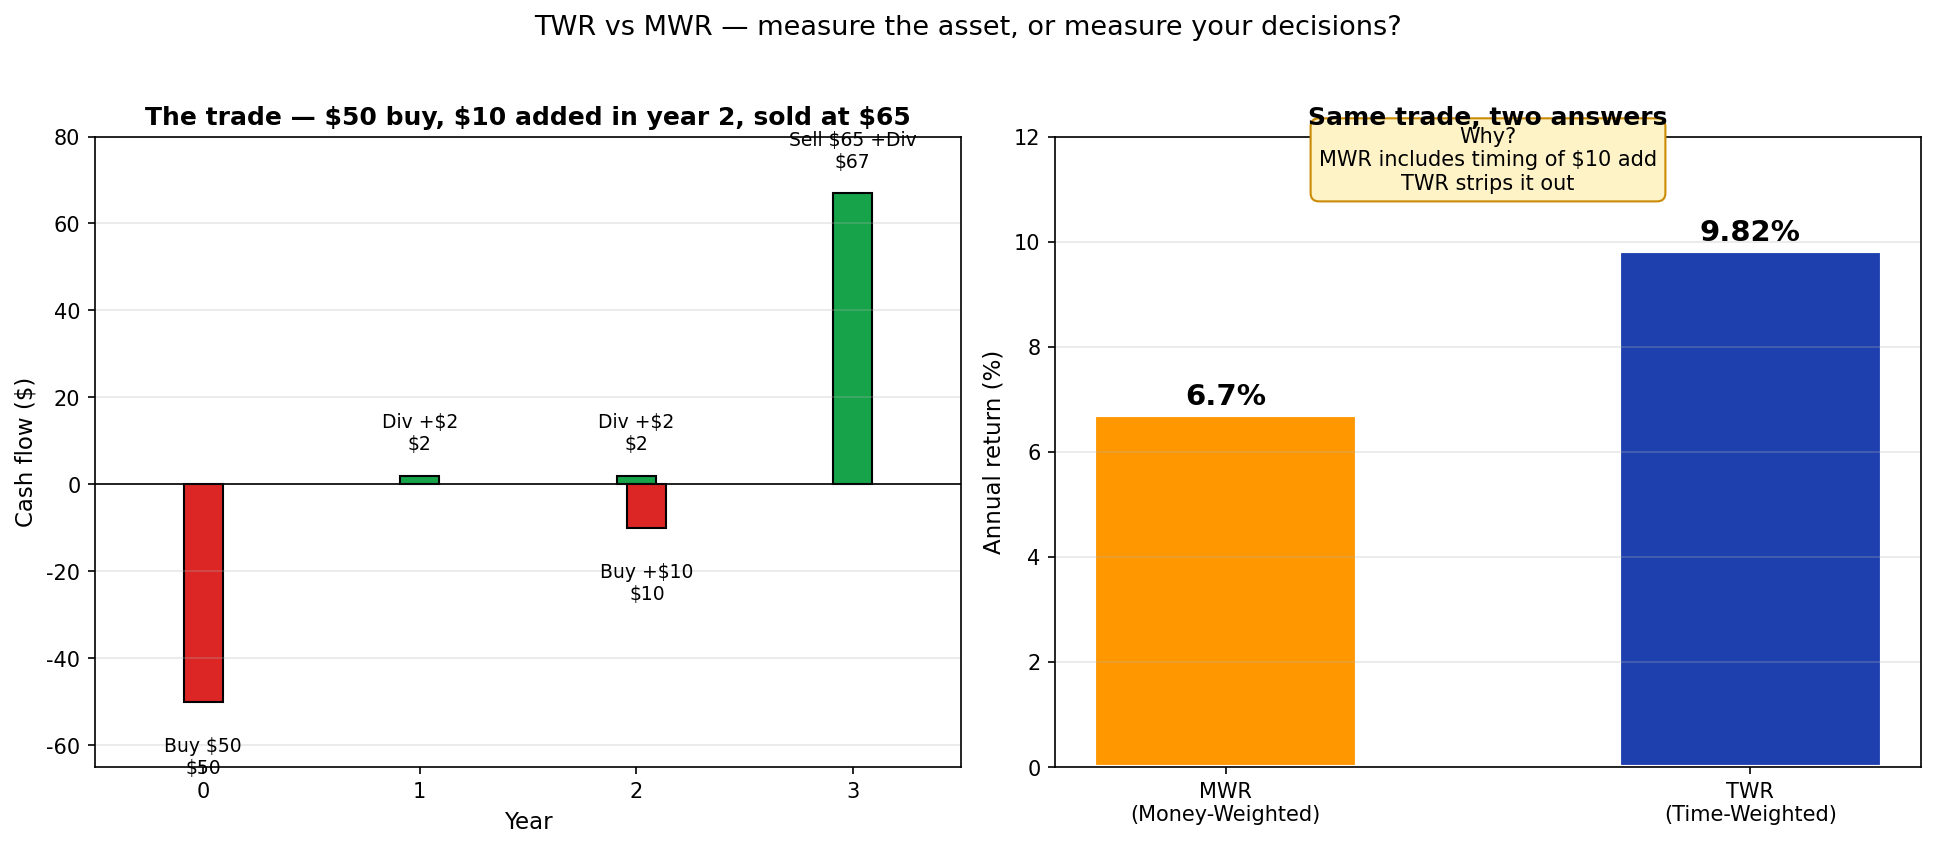
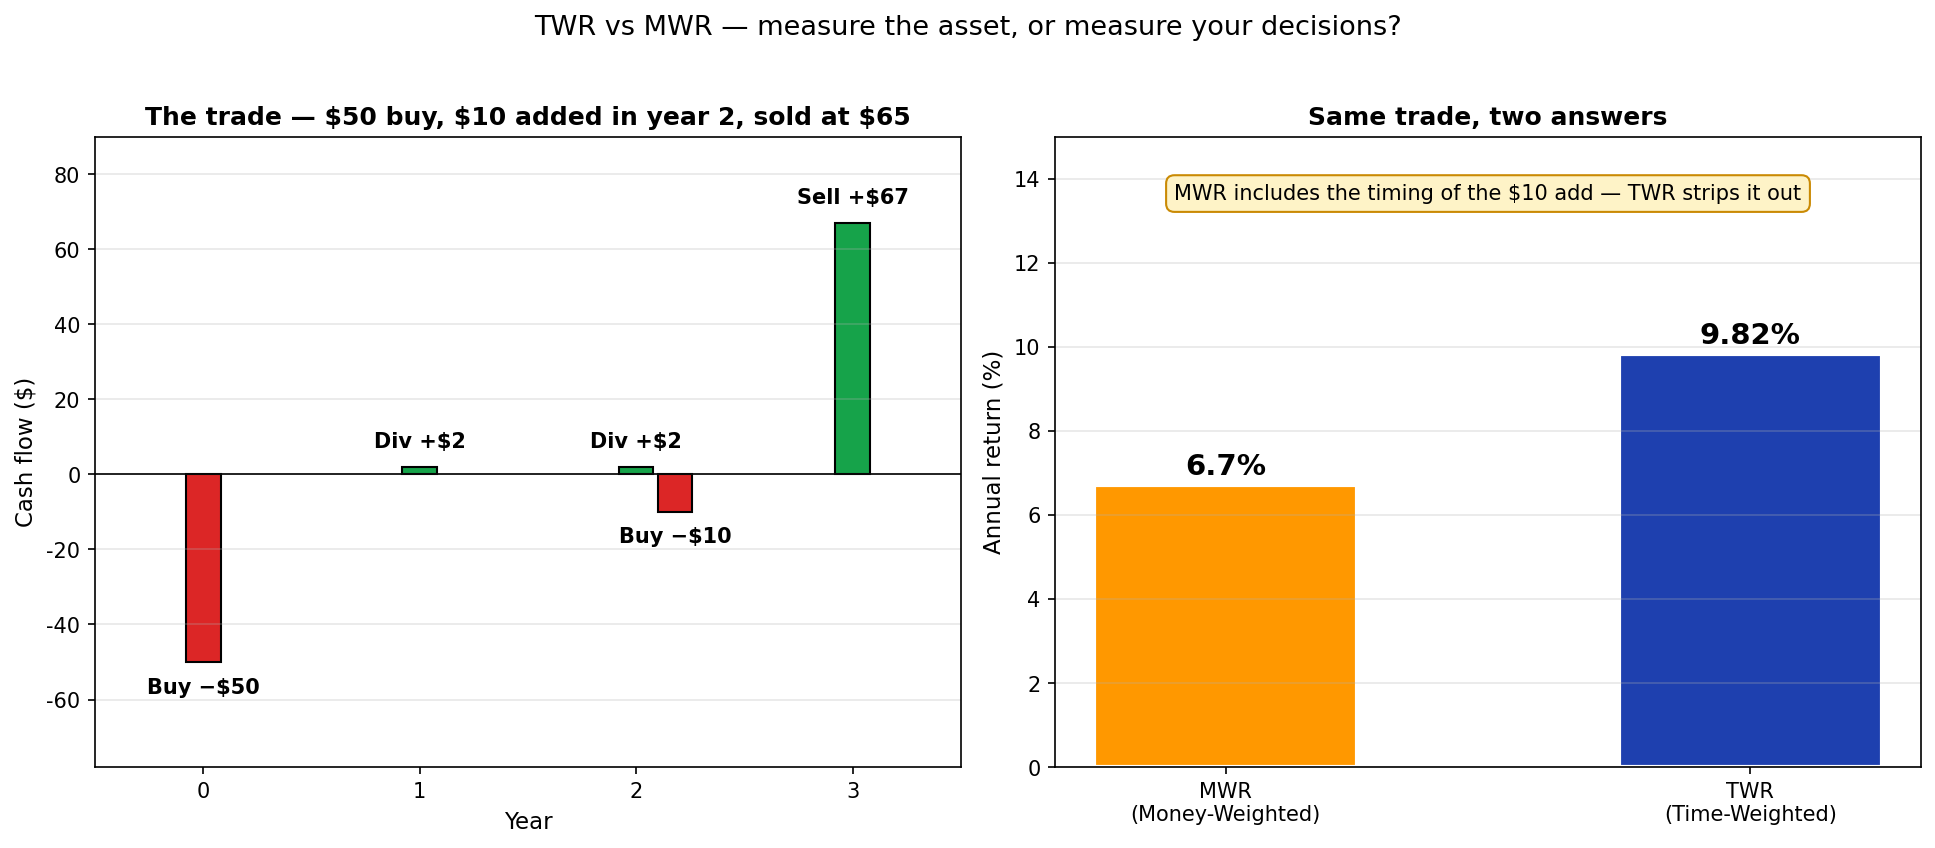
fix TWR chart label overlap + aggressively compact home dashboard block
ret_twr_vs_mwr.png:
- Left panel had stacked 2-line labels ("Buy $50\n$50") doubling info and
  crowding into each other where bars sat close (year-2 dividend + buy).
  Switched to one-line labels with sign baked in: "Buy −$50", "Buy −$10",
  "Sell +$67". Year-2 buy bar shifted 0.18 right (was 0.05) to prevent it
  from sitting on the dividend label.
- Right panel had a 3-line yellow callout sitting at y=11 that overlapped
  the TWR bar's 9.82% number. Increased ylim to 15, condensed callout to
  one line, placed at y=13.5 — clear of both bars.

Home live dashboard (.live-dash class):
- Whole block wrapped in a container div so CSS can scale every nested
  element down at once.
- H2 ("📊 변동성 라이브 대시보드") shrunk from default ~1.6rem to 1.1rem
- H3 (sub-section titles) shrunk from default ~1.25rem to 0.95rem,
  recolored gray, tight margins (0.5/0.2 rem)
- Paragraphs/captions tighter margins (0.2 rem)
- <hr> dividers tighter (0.4 rem)
- Image margins tightened to 0.3 rem with 90% max-width

Net effect: the entire dashboard block takes roughly 60% of its previous
vertical real estate without making text unreadable.

diff --git a/scripts/update_dashboard.py b/scripts/update_dashboard.py
@@ -332,6 +332,8 @@ def render_section_ko(cs, vs):
     spread_label = "역전" if cs["spread_state"] == "danger" else KO_LABEL[cs["spread_state"]]
     parts = [
         START_MARK,
+        '<div class="live-dash" markdown>',
+        "",
         "## 📊 변동성 라이브 대시보드",
         "",
         f"<small>**{cs['date']} 기준** · 미국 장 마감 후 매일 자동 갱신 · "
@@ -379,6 +381,8 @@ def render_section_ko(cs, vs):
         "",
         "![변동성 대시보드 (S&P 500 페어)](assets/diagrams/vol_dashboard.png)",
         "",
+        "</div>",
+        "",
         "---",
         END_MARK,
     ]
@@ -389,6 +393,8 @@ def render_section_en(cs, vs):
     spread_label = "Inverted" if cs["spread_state"] == "danger" else EN_LABEL[cs["spread_state"]]
     parts = [
         START_MARK,
+        '<div class="live-dash" markdown>',
+        "",
         "## 📊 Live Volatility Dashboard",
         "",
         f"<small>**As of {cs['date']}** · Auto-updates daily after the US close · "
@@ -435,6 +441,8 @@ def render_section_en(cs, vs):
         "</div>",
         "",
         "![Volatility dashboard (paired with S&P 500)](assets/diagrams_en/vol_dashboard.png)",
+        "",
+        "</div>",
         "",
         "---",
         END_MARK,

diff --git a/docs/index.ko.md b/docs/index.ko.md
@@ -26,6 +26,8 @@ title: Home
 </div>
 
 <!-- DASHBOARD_START -->
+<div class="live-dash" markdown>
+
 ## 📊 변동성 라이브 대시보드
 
 <small>**2026-05-08 기준** · 미국 장 마감 후 매일 자동 갱신 · [자세히 →](posts/volatility-dashboard.md)</small>
@@ -61,6 +63,8 @@ title: Home
 </div>
 
 ![변동성 대시보드 (S&P 500 페어)](assets/diagrams/vol_dashboard.png)
+
+</div>
 
 ---
 <!-- DASHBOARD_END -->

diff --git a/docs/index.en.md b/docs/index.en.md
@@ -26,6 +26,8 @@ title: Home
 </div>
 
 <!-- DASHBOARD_START -->
+<div class="live-dash" markdown>
+
 ## 📊 Live Volatility Dashboard
 
 <small>**As of 2026-05-08** · Auto-updates daily after the US close · [Full article →](posts/volatility-dashboard.md)</small>
@@ -61,6 +63,8 @@ title: Home
 </div>
 
 ![Volatility dashboard (paired with S&P 500)](assets/diagrams_en/vol_dashboard.png)
+
+</div>
 
 ---
 <!-- DASHBOARD_END -->
